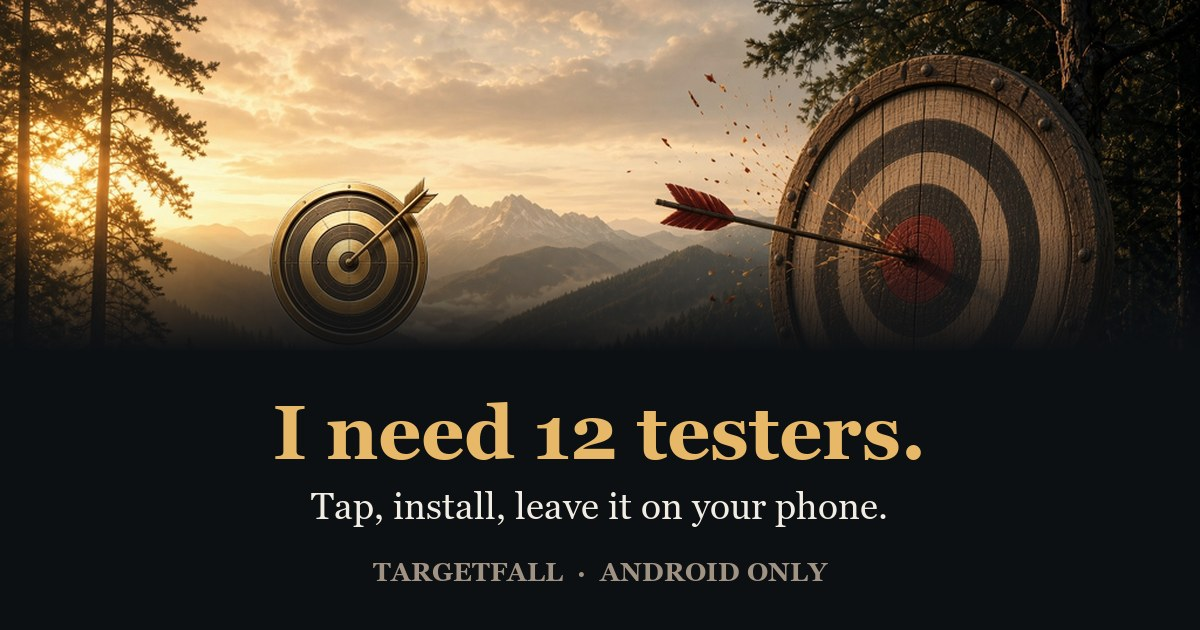
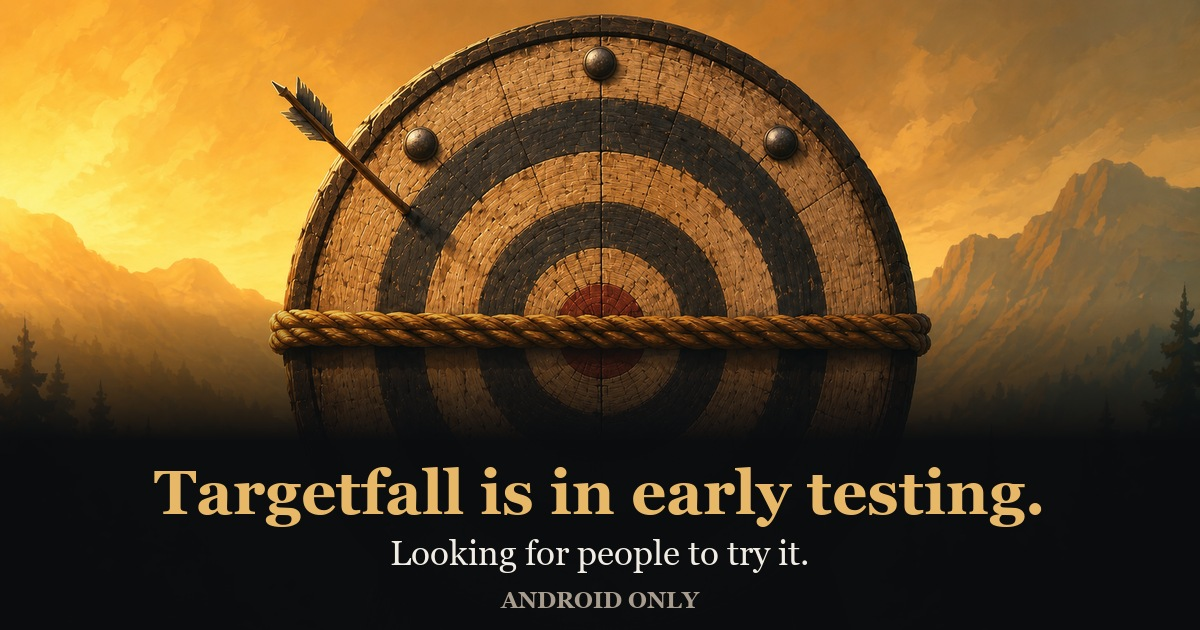
Join page: sharper art, one target, and drop the number
Three things Matt called out.

SOFT: the preview image was built by upscaling a 1024px source to 1200. It now
uses range-closed.png, which is natively 1200x630 -- exactly Open Graph size,
so there is no resampling at all.

TWO TARGETS: the old art carried the gold logo medallion beside the wooden
target. The native art has one target, no medallion and no wordmark, so the
crop fight disappears with it.

THE NUMBER: "I need 12 testers" is replaced throughout. It reads as a chore
being handed over, ages badly the moment the count moves, and says nothing
about the game. The page now says it is early and he is looking for people to
try it. The QR caption says what it is for -- showing to a friend, so it
writes the email for them.

The scrim under the headline was also driven to near-solid before the text
begins. At its previous strength the type fought the wood grain.

diff --git a/join/index.html b/join/index.html
@@ -3,10 +3,10 @@
 <head>
 <meta charset="utf-8">
 <meta name="viewport" content="width=device-width, initial-scale=1">
-<title>Targetfall — I need 12 testers</title>
-<meta name="description" content="Tap, install, leave it on your phone. Android only.">
-<meta property="og:title" content="I need 12 testers.">
-<meta property="og:description" content="Google won't put Targetfall on the Play Store until 12 people test it for two weeks. Tap, install, leave it on your phone — you don't have to play it.">
+<title>Targetfall — early testing</title>
+<meta name="description" content="Targetfall is in early testing. Looking for people to try it. Android only.">
+<meta property="og:title" content="Targetfall is in early testing.">
+<meta property="og:description" content="Looking for people to try it. Tap through and I'll add you to the test — Android only.">
 <meta property="og:image" content="https://playingodds-spec.github.io/Playingodds/join/og.jpg">
 <meta property="og:image:width" content="1200">
 <meta property="og:image:height" content="630">
@@ -40,18 +40,18 @@
 </head>
 <body>
 
-  <div class="hero"><img src="og.jpg" alt="Targetfall — I need 12 testers."></div>
+  <div class="hero"><img src="og.jpg" alt="A weathered archery target at golden hour, roped off, one arrow in the outer ring."></div>
 
   <main>
     <h1>Want in?</h1>
-    <p>Google won&rsquo;t put Targetfall on the Play Store until 12 people test it
-       for two weeks. <strong>You don&rsquo;t have to play it</strong> — just leave it
-       installed.</p>
+    <p>It&rsquo;s early days and I&rsquo;m looking for people to test it.
+       <strong>You don&rsquo;t have to play much</strong> &mdash; just keep it installed
+       for a couple of weeks.</p>
 
     <a class="cta" id="signup-mail" href="#">Email me and I&rsquo;ll add you &rarr;</a>
 
     <img class="qr" src="signup-qr.png" alt="QR code that writes the signup email for you.">
-    <p class="fine">Or scan it — the email writes itself.</p>
+    <p class="fine">Show this to a friend &mdash; scanning it writes the email for them.</p>
 
     <p class="fine"><strong>Android only.</strong> Google&rsquo;s test system can&rsquo;t reach iPhones.</p>
 
